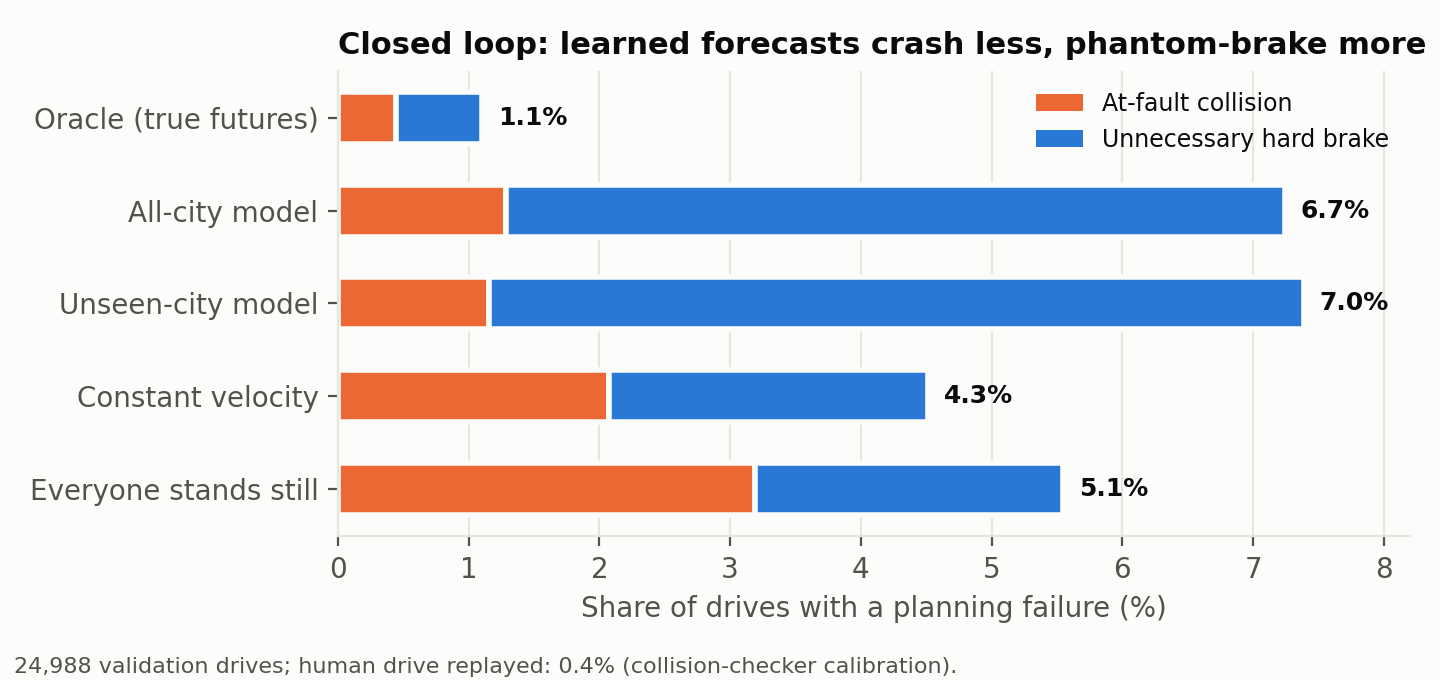
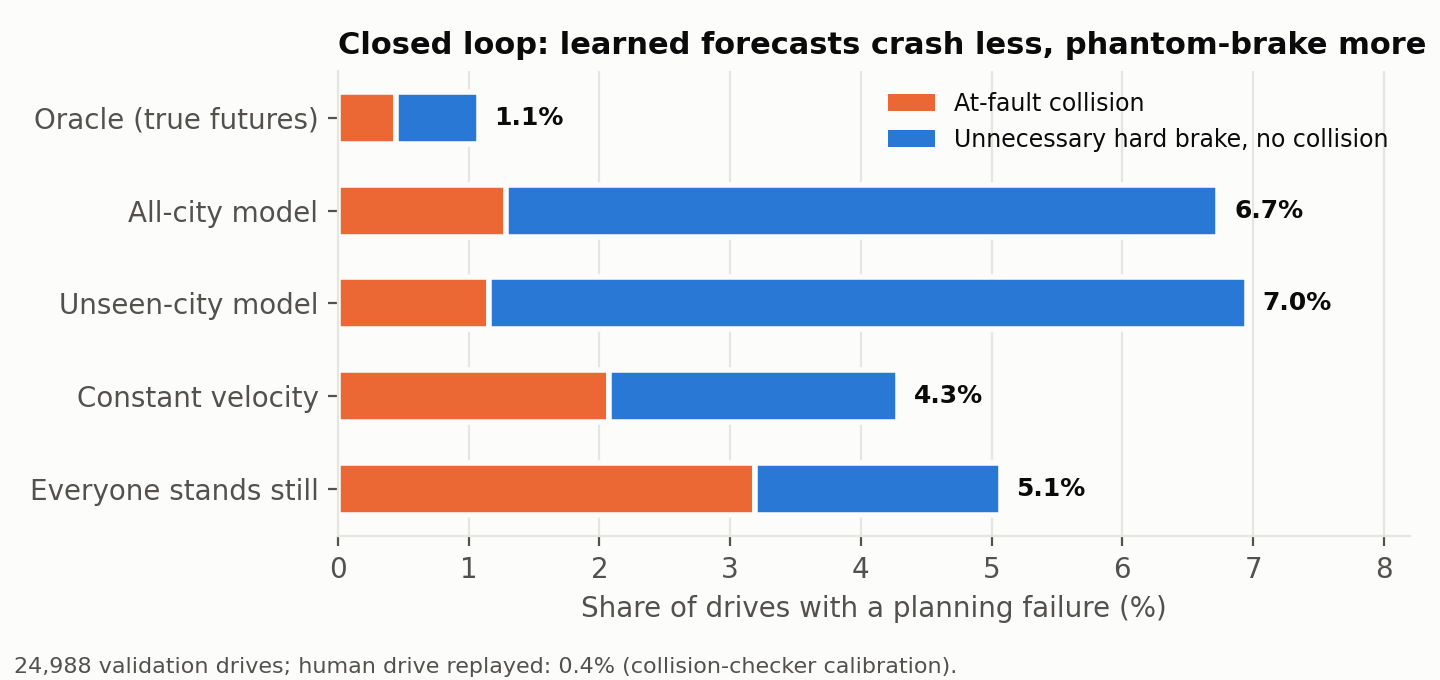
Fixes from full-repo review
- Closed-loop figure: disjoint segments so bar length equals the failure rate
  (collision and hard brake co-occurred in up to 0.5 pp of drives)
- README: state the Stage 2 planner's privileged information, the Stage 1 /
  Stage 2 forecast mismatch, centre-based at-fault attribution, the FP16
  worst-case difference and predictor-only latency; H3 worded as no detectable
  difference; oracle described as error-ranked; ALL vs LOCO training draws
- Reproduce: release download for the audit; figures extra; lint fixes

diff --git a/scripts/audit_recompute.py b/scripts/audit_recompute.py
@@ -1,40 +1,73 @@
 """Independent recomputation of the headline numbers: plain pandas/numpy, no imports from
 cityshift.analysis. Usage: python scripts/audit_recompute.py <evals dir>
 (the per-scenario tables are attached to the GitHub release)."""
-import json, sys
-import numpy as np, pandas as pd
-E=(sys.argv[1] if len(sys.argv) > 1 else "evals").rstrip("/") + "/"
-CITIES=["austin","dearborn","miami","palo-alto","pittsburgh","washington-dc"]
-A=pd.read_parquet(E+'ALL.parquet')
-res=json.load(open(E+'results.json')); s2=json.load(open(E+'stage2_results.json'))
-def sm(df,m): return df[[f's{i}_{m}' for i in range(3)]].mean(1).to_numpy()
+
+import json
+import sys
+
+import numpy as np
+import pandas as pd
+
+E = (sys.argv[1] if len(sys.argv) > 1 else "evals").rstrip("/") + "/"
+CITIES = ["austin", "dearborn", "miami", "palo-alto", "pittsburgh", "washington-dc"]
+A = pd.read_parquet(E + "ALL.parquet")
+res = json.load(open(E + "results.json"))
+s2 = json.load(open(E + "stage2_results.json"))
+
+
+def sm(df, m):
+    return df[[f"s{i}_{m}" for i in range(3)]].mean(1).to_numpy()
+
+
 # H1
-rel={}
+rel = {}
 for c in CITIES:
-    L=pd.read_parquet(E+f'LOCO-{c}.parquet'); assert (L.scenario_id.values==A.scenario_id.values).all()
-    m=(A.city==c).to_numpy()
-    rel[c]=sm(L,'miss')[m].mean()/sm(A,'miss')[m].mean()-1
-print('H1 pooled recomputed', np.mean(list(rel.values())), 'reported', res['H1']['pooled_rel_change'])
-print('H1 per fold max abs diff', max(abs(rel[c]-res['H1']['per_fold'][c]) for c in CITIES))
+    L = pd.read_parquet(E + f"LOCO-{c}.parquet")
+    assert (L.scenario_id.values == A.scenario_id.values).all()
+    m = (A.city == c).to_numpy()
+    rel[c] = sm(L, "miss")[m].mean() / sm(A, "miss")[m].mean() - 1
+print("H1 pooled recomputed", np.mean(list(rel.values())), "reported", res["H1"]["pooled_rel_change"])
+print("H1 per fold max abs diff", max(abs(rel[c] - res["H1"]["per_fold"][c]) for c in CITIES))
+
+
 # H2: CF with independent implementation (keep 80% lowest score)
-def cf(miss,score,err):
-    n=int(round(.8*len(miss)))
-    k=lambda v: np.argsort(v,kind='stable')[:n]
-    base=miss.mean(); return (base-miss[k(score)].mean())/(base-miss[k(err)].mean())
-cfs={}; cfi={}
+def cf(miss, score, err):
+    n = int(round(0.8 * len(miss)))
+    base = miss.mean()
+    kept_score = np.argsort(score, kind="stable")[:n]
+    kept_err = np.argsort(err, kind="stable")[:n]
+    return (base - miss[kept_score].mean()) / (base - miss[kept_err].mean())
+
+
+cfs = {}
+cfi = {}
 for c in CITIES:
-    L=pd.read_parquet(E+f'LOCO-{c}.parquet'); m=(L.city==c).to_numpy()
-    cfs[c]=cf(sm(L,'miss')[m],L.disagree.to_numpy()[m],sm(L,'min_fde')[m])
-    cfi[c]=cf(sm(L,'miss')[~m],L.disagree.to_numpy()[~m],sm(L,'min_fde')[~m])
-print('H2 pooled recomputed', np.mean(list(cfs.values())), 'reported', res['H2']['pooled_CF_U1_heldout'])
-print('H3 pooled recomputed', np.mean([cfs[c]-cfi[c] for c in CITIES]), 'reported', res['H3']['pooled_CF_diff_heldout_minus_indist'])
+    L = pd.read_parquet(E + f"LOCO-{c}.parquet")
+    m = (L.city == c).to_numpy()
+    cfs[c] = cf(sm(L, "miss")[m], L.disagree.to_numpy()[m], sm(L, "min_fde")[m])
+    cfi[c] = cf(sm(L, "miss")[~m], L.disagree.to_numpy()[~m], sm(L, "min_fde")[~m])
+print("H2 pooled recomputed", np.mean(list(cfs.values())), "reported", res["H2"]["pooled_CF_U1_heldout"])
+print(
+    "H3 pooled recomputed",
+    np.mean([cfs[c] - cfi[c] for c in CITIES]),
+    "reported",
+    res["H3"]["pooled_CF_diff_heldout_minus_indist"],
+)
 # H4
-D=pd.read_parquet(E+'stage2_closedloop.parquet')
-fa=D[[f'ALL_s{i}_failure' for i in range(3)]].astype(float).mean(1); fl=D[[f'LOCO_s{i}_failure' for i in range(3)]].astype(float).mean(1)
-r4={c:fl[D.city==c].mean()/fa[D.city==c].mean()-1 for c in CITIES}
-print('H4 pooled recomputed', np.mean(list(r4.values())), 'reported', s2['H4']['pooled_rel_change'])
-print('H4 per fold', {c:round(v,4) for c,v in r4.items()})
-print('n val scenarios', len(A), 'stage2 rows', len(D), 'ALL failures seed-avg', fa.sum())
+D = pd.read_parquet(E + "stage2_closedloop.parquet")
+fa = D[[f"ALL_s{i}_failure" for i in range(3)]].astype(float).mean(1)
+fl = D[[f"LOCO_s{i}_failure" for i in range(3)]].astype(float).mean(1)
+r4 = {c: fl[D.city == c].mean() / fa[D.city == c].mean() - 1 for c in CITIES}
+print("H4 pooled recomputed", np.mean(list(r4.values())), "reported", s2["H4"]["pooled_rel_change"])
+print("H4 per fold", {c: round(v, 4) for c, v in r4.items()})
+print("n val scenarios", len(A), "stage2 rows", len(D), "ALL failures seed-avg", fa.sum())
 # PCs
-N=pd.read_parquet(E+'NOMAP.parquet'); print('PC1 recomputed', N.s0_miss.mean()/A.s0_miss.mean()-1, 'reported', res['PC1']['rel'])
-print('PC3 recomputed static/ALL collision', D.static_collision.mean(), D[[f'ALL_s{i}_collision' for i in range(3)]].astype(float).mean(1).mean(), 'LOG', D.log_collision.mean())
+N = pd.read_parquet(E + "NOMAP.parquet")
+print("PC1 recomputed", N.s0_miss.mean() / A.s0_miss.mean() - 1, "reported", res["PC1"]["rel"])
+print(
+    "PC3 recomputed static/ALL collision",
+    D.static_collision.mean(),
+    D[[f"ALL_s{i}_collision" for i in range(3)]].astype(float).mean(1).mean(),
+    "LOG",
+    D.log_collision.mean(),
+)

diff --git a/scripts/plot_results.py b/scripts/plot_results.py
@@ -94,7 +94,7 @@ def fig_h2(evals: str, out: str) -> None:
         curves["random"].append([miss.mean()] * len(cov))
     fig, ax = plt.subplots(figsize=(7.2, 3.9))
     style = {"random": (MUTED, "Random rejection (sham)", (0, (4, 3))), "disagree": (BLUE, "Reject where 3 seeds disagree", "-"),
-             "oracle": (AQUA, "Oracle (knows the true error)", "-")}  # fmt: skip
+             "oracle": (AQUA, "Error-ranked oracle (true minFDE)", "-")}  # fmt: skip
     for key in ("random", "disagree", "oracle"):
         col, lab, ls = style[key]
         yv = np.mean(curves[key], 0) * 100
@@ -108,7 +108,7 @@ def fig_h2(evals: str, out: str) -> None:
     ax.invert_xaxis()
     ax.set_xlabel("Share of scenarios the predictor keeps (%)")
     ax.set_ylabel("Miss rate of kept scenarios (%)")
-    ax.set_title("H2: disagreement catches a third of the misses an oracle could remove", loc="left")
+    ax.set_title("H2: disagreement catches a third of what an error-ranked oracle removes", loc="left")
     ax.grid(axis="y")
     ax.set_axisbelow(True)
     fig.text(0.01, 0.01, "Held-out-city validation scenarios, mean of the six leave-one-city-out folds.", color=INK2, fontsize=8)
@@ -129,7 +129,10 @@ def fig_closed_loop(evals: str, out: str) -> None:
             ("cv", "Constant velocity"), ("static", "Everyone stands still")]  # fmt: skip
     fig, ax = plt.subplots(figsize=(7.2, 3.4))
     for yi, (arm, name) in enumerate(arms[::-1]):
-        c, h = rate(arm, "collision"), rate(arm, "unnecessary_hard_brake")
+        # Segments are disjoint so the bar length equals the failure rate (their union):
+        # any at-fault collision, then hard brakes in drives without a collision.
+        c = rate(arm, "collision")
+        h = rate(arm, "failure") - c
         ax.barh(yi, c, height=0.56, color=ORANGE, edgecolor=SURFACE, linewidth=2)
         ax.barh(yi, h, left=c, height=0.56, color=BLUE, edgecolor=SURFACE, linewidth=2)
         ax.text(c + h + 0.12, yi, f"{rate(arm, 'failure'):.1f}%", va="center", fontsize=9, fontweight="bold")
@@ -137,7 +140,7 @@ def fig_closed_loop(evals: str, out: str) -> None:
     ax.set_xlabel("Share of drives with a planning failure (%)")
     ax.set_title("Closed loop: learned forecasts crash less, phantom-brake more", loc="left")
     ax.bar(0, 0, color=ORANGE, label="At-fault collision")
-    ax.bar(0, 0, color=BLUE, label="Unnecessary hard brake")
+    ax.bar(0, 0, color=BLUE, label="Unnecessary hard brake, no collision")
     ax.legend(loc="upper right", fontsize=8.5)
     ax.grid(axis="x")
     ax.set_axisbelow(True)

diff --git a/README.md b/README.md
@@ -6,7 +6,7 @@ A pre-registered study on the [Argoverse 2 motion forecasting dataset](https://w
 
 > **Status: complete.** 22 training runs, both stages, and the deployment gate ran as pre-registered; the post-run audit recomputed every headline number independently ([`scripts/audit_recompute.py`](scripts/audit_recompute.py)). The hypotheses, arms, and kill criteria were committed before any confirmatory model was scored on the validation split. (Throwaway smoke runs used validation data for pipeline debugging before registration; that is disclosed as deviation 1 and no design choice came from it.)
 
-**Answers, in one line each.** Accuracy drops in an unseen city, but only by about 5%. The model's own uncertainty still flags the predictions that fail there, as well as it does at home, yet it cannot tell that it is in a new city. In closed loop the extra error shows up as a small rise in planning failures (+4%, mostly extra phantom braking), below the registered +10% bar, so H4 is dead as registered.
+**Answers, in one line each.** Accuracy drops in an unseen city, but only by about 5%. The model's own uncertainty still flags the predictions that fail there (with no detectable difference from how it does at home), yet it cannot tell that it is in a new city. In closed loop the extra error shows up as a small rise in planning failures (+4%, mostly extra phantom braking), below the registered +10% bar, so H4 is dead as registered.
 
 ![Two Palo Alto validation scenarios: the model trained with Palo Alto vs the model that never saw it](docs/figures/example_scenarios.png)
 
@@ -25,7 +25,7 @@ Pre-registrations, including every deviation and the reason for it:
 
 ## Design
 
-**Leave one city out.** For each of the six cities (Austin, Dearborn, Miami, Palo Alto, Pittsburgh, Washington DC), a model is trained on the other five. Its comparator is a model trained on all six. Both see the same number of training scenarios (128,000) for the same number of steps, and both are scored on the *same* validation scenarios from the held-out city, so the only difference between them is whether that city was in training. Three seeds per arm; the seeds vary both initialisation and the training-sample draw.
+**Leave one city out.** For each of the six cities (Austin, Dearborn, Miami, Palo Alto, Pittsburgh, Washington DC), a model is trained on the other five. Its comparator is a model trained on all six. Both see the same number of training scenarios (128,000) for the same number of steps, and both are scored on the *same* validation scenarios from the held-out city, so they differ only in whether that city was in training and in the random draw of training scenarios (which the three seeds vary). Three seeds per arm; the seeds vary both initialisation and the training-sample draw.
 
 | Arm | Role | Runs |
 |---|---|---|
@@ -33,7 +33,7 @@ Pre-registrations, including every deviation and the reason for it:
 | ALL | control: trained on all six cities, same size | 3 seeds |
 | NOMAP | positive control: map input removed, must be clearly worse | 1 |
 | Random rejection | sham for H2, rejects the same 20% dose | analysis only |
-| Oracle rejection | ceiling for H2, rejects the truly worst 20% | analysis only |
+| Oracle rejection | reference for H2: rejects the 20% with the largest true error (seed-averaged minFDE) | analysis only |
 
 **Statistics.** Pooled effects are means over the six city folds. Each hypothesis is decided by a scenario-level paired bootstrap CI (10,000 draws, resampling within each city) at the Bonferroni level for the four-hypothesis family, 98.75%, together with its magnitude bar. An exact sign-flip test over folds is reported as fold consistency only: with six folds its two-sided floor is 2/64 = 0.031, which no multiplicity correction over four tests can pass. The registration originally used that test with Holm correction; the error was caught by an external code review before any confirmatory scoring and is recorded as deviation 3.
 
@@ -60,6 +60,7 @@ For context only: the Argoverse 2 paper's strongest baseline, WIMP, reports minF
 Open-loop accuracy cannot say whether an error matters: a 3 m miss on a car 80 m away changes nothing, a 1 m miss on a car cutting in changes everything. Stage 2 puts the predictor in a loop:
 
 1. At 5 s the self-driving car's own logged track is handed to a planner. The other agents replay their logs and do not react.
+   **The planner is privileged by design:** it follows the human driver's *future* path and its speed is capped at the human's future maximum speed plus 1 m/s. It only chooses how fast to go along that path. This makes Stage 2 a paired sensitivity test of one planner to its forecasts, not a general driving benchmark.
 2. Every second, the planner forecasts up to 16 nearby agents, ranked by how close they come to the car's route. It picks one of 11 constant-acceleration speed profiles along the car's logged path and executes it for 1 s.
 3. The drive is scored against where every agent actually went. The outcomes are an at-fault collision (exact oriented-box overlap, agent ahead of the car) or an unnecessary hard brake (at or below -4 m/s² when the human driver never braked that hard).
 
@@ -75,7 +76,7 @@ The model exports to ONNX and TensorRT. The gate compares engines against a true
 | TensorRT FP32 | 0.0% (paths within 0.14 mm) | 0.0% | 0.59 ms | 1.97 ms |
 | TensorRT FP16 | +0.13% | -0.64% | 0.39 ms | 0.97 ms |
 
-Gate: pass (FP32 within 1 cm; FP16 within 1% on minFDE and miss rate). FP16 is 3.4x faster than PyTorch at batch 1 and 3.5x at batch 32.
+Gate: pass (FP32 within 1 cm; FP16 within 1% on minFDE and miss rate). The FP16 aggregate barely moves, but the largest single-coordinate difference across the 2,000 scenes is 1.45 m, on one mode of one scene. The latency figures time the predictor alone, not the closed-loop serving path (scene building and planning run on the CPU). FP16 is 3.4x faster than PyTorch at batch 1 and 3.5x at batch 32.
 
 ## Results
 
@@ -84,7 +85,7 @@ All numbers are on the 24,988 validation scenarios; per-arm outcomes average the
 | | Result | 98.75% CI | Fold consistency | Registered verdict |
 |---|---|---|---|---|
 | **H1** accuracy gap (miss rate, unseen vs seen city) | **+5.3%** relative | [+3.3%, +7.2%] | 6/6 folds positive (p = 0.031, floor) | supported: CI excludes 0 and point estimate clears the +5% bar, but the CI's lower end does not |
-| **H2** capture fraction of ensemble disagreement, unseen city | **0.333** (random rejection: 0.000) | [0.311, 0.356] | 6/6 folds (p = 0.016, floor) | supported, above the 0.25 useful bar |
+| **H2** capture fraction of ensemble disagreement, unseen city (vs error-ranked oracle) | **0.333** (random rejection: 0.000) | [0.311, 0.356] | 6/6 folds (p = 0.016, floor) | supported, above the 0.25 useful bar |
 | **H3** capture fraction, unseen minus seen cities | +0.005 | [-0.018, +0.030] | p = 0.56 | no detectable difference |
 | **H4** planning-failure rate, unseen-city vs all-city predictor | **+4.3%** relative | [+0.1%, +9.1%] | 4/6 folds positive (p = 0.22) | **dead**: CI excludes 0, but the point estimate is below the +10% bar |
 | PC1 no-map model | miss rate 0.355 vs 0.228 (+56%) | | | pass (needs +10%) |
@@ -124,7 +125,7 @@ The fold-consistency p-values sit at the 6-fold floor and are descriptive only; 
 
 ### Exploratory findings (not registered, labelled permanently)
 
-- **Knowing it is wrong is not knowing it is somewhere new.** No uncertainty signal separates unseen-city scenarios from seen-city ones (mean AUROC 0.505 to 0.518 across the four signals, chance is 0.5), even though the same signals rank that city's errors as well as at home (H3).
+- **Knowing it is wrong is not knowing it is somewhere new.** No uncertainty signal separates unseen-city scenarios from seen-city ones (mean AUROC 0.505 to 0.518 across the four signals, chance is 0.5), even though ensemble disagreement ranks that city's errors with no detectable difference from the seen cities (H3; not a proof of equivalence).
 - **A single model's mode spread beats the three-seed ensemble** at catching misses in the unseen city (capture fraction 0.40 vs 0.33), at a third of the inference cost. Mode entropy (0.24) and Mahalanobis distance of the scene embedding (0.17) are weaker.
 - **The learned predictor phantom-brakes.** It collides less than constant velocity (1.3% vs 2.1%) but fails more overall (6.7% vs 4.3%), because the registered planner brakes for any predicted mode that crosses its path, even at a few percent probability. The unseen-city predictor's extra failures are extra hard brakes (6.2% vs 6.0%), not collisions (1.2% vs 1.3%). The planner was deliberately not retuned after this was first seen on development data.
 
@@ -146,6 +147,8 @@ Every one of these was found by a diagnostic before any change was made, and eac
 
 ## Limitations
 
+- **Stage 1 and Stage 2 score different forecasts.** Stage 1 measures the focal agent; the planner consumes forecasts of up to 16 surrounding agents at six replan times, whose accuracy is not separately reported.
+- **At-fault attribution is centre-based:** a collision counts when the other agent's centre is ahead of the ego's centre, which can miss some side-swipes with long vehicles.
 - **Stage 2 agents do not react to the simulated car.** The planner is longitudinal only and has no traffic-light or stop-sign awareness, so it drives about 1.5 to 1.7x the human's distance. There is no perception noise, and the window is 6 s. These limits apply equally to every arm, which is what the comparison needs, but they bound what the absolute failure rates mean.
 - **One dataset, six US cities.** No left-hand traffic and no weather split.
 - **The model is small.** City effects could differ at leaderboard scale.
@@ -154,7 +157,7 @@ Every one of these was found by a diagnostic before any change was made, and eac
 ## Reproduce
 
 ```bash
-pip install -e ".[dev,deploy]"
+pip install -e ".[dev,deploy,figures]"   # plus s5cmd (https://github.com/peak/s5cmd) for the download
 # data: ~53 GB (train + val), public bucket
 s5cmd --no-sign-request cp "s3://argoverse/datasets/av2/motion-forecasting/train/*" data/raw/train/
 s5cmd --no-sign-request cp "s3://argoverse/datasets/av2/motion-forecasting/val/*"   data/raw/val/
@@ -165,6 +168,8 @@ ROOT=data/pp scripts/run_confirmatory.sh 128000     # 22 training runs
 ROOT=data/pp scripts/evaluate_all.sh                # Stage 1 scoring + analysis
 RAW=data/raw/val scripts/run_stage2.sh              # Stage 2 closed loop + analysis
 python -m cityshift.export_trt --root data/pp --ckpt runs/ALL/seed0/model.pt --out evals/deploy
+# check the published numbers without retraining: per-scenario tables from release v1.0
+gh release download v1.0 -R yusufdxb/av2-city-shift -p per-scenario-results.tar.gz && tar xzf per-scenario-results.tar.gz
 python scripts/audit_recompute.py evals             # independent recomputation of the headline numbers
 python scripts/plot_results.py --root data/pp        # the figures in docs/figures
 pytest -q                                           # 19 tests; 40 more are generated when raw data is present
